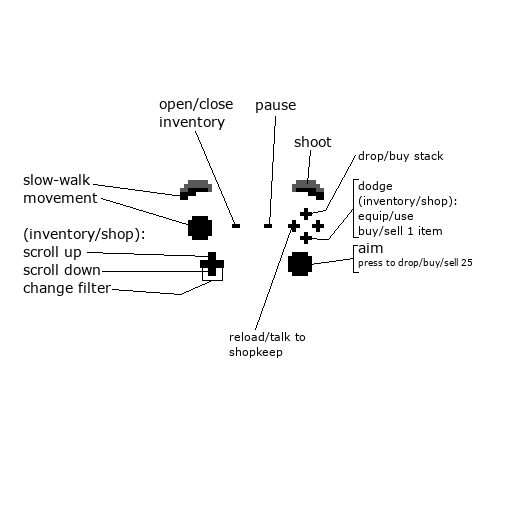
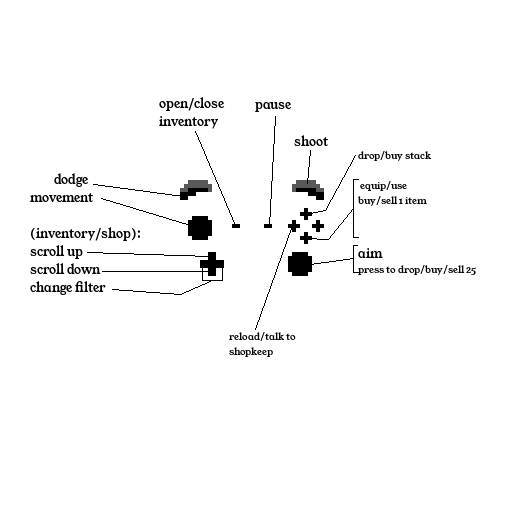
Various difficulty changes, change dodge control on gamepad to LB, update gamepad controls image

diff --git a/inventory/Item.cpp b/inventory/Item.cpp
@@ -50,7 +50,7 @@ const Item Item::DAGGER(6, "Dagger", sf::IntRect(18, 0, 1, 1), false, 0, false,
 
 const Item Item::BULLET_455(7, "Pistol Round", sf::IntRect(22, 3, 1, 1), true, 9999, false,
     "A centrefire black powder cartridge\nFor use with revolvers and\nother handguns",
-    EQUIPMENT_TYPE::AMMO, 10, 0, 0, sf::Vector2f(), false, 50
+    EQUIPMENT_TYPE::AMMO, 10, 0, 0, sf::Vector2f(), false, 15
 );
 const ProjectileData Item::DATA_B455(Item::BULLET_455.getId(), 5, sf::IntRect(6, 8, 4, 4), true, true);
 
@@ -236,7 +236,7 @@ const ProjectileData Item::DATA_PROJECTILE_SNOW_BALL(Item::_PROJECTILE_SNOW_BALL
 
 const Item Item::STEROIDS(33, "Steroids", sf::IntRect(114 >> SPRITE_SHEET_SHIFT, 161 >> SPRITE_SHEET_SHIFT, 1, 1), true, 5, true,
     "Increases max HP by 25\nIncreases max stamina by 100\nIncreases damage multiplier by .25",
-    EQUIPMENT_TYPE::NOT_EQUIPABLE, 0, 0, 0, sf::Vector2f(), false, 39000, true,
+    EQUIPMENT_TYPE::NOT_EQUIPABLE, 0, 0, 0, sf::Vector2f(), false, 30000, true,
     [](Entity* parent) {
         parent->setMaxHitPoints(parent->getMaxHitPoints() + 25);
         parent->setMaxStamina(parent->getMaxStamina() + 100);
@@ -281,7 +281,7 @@ const Item Item::LIQUID_NAP(37, "Liquid Nap", sf::IntRect(6, 11, 1, 1), true, 10
 
 const Item Item::LOCUS_LIFT(38, "Multivitamin", sf::IntRect(7, 11, 1, 1), true, 10, true,
     "Increases damage multiplier juuust a little bit",
-    EQUIPMENT_TYPE::NOT_EQUIPABLE, 0, 0, 0, sf::Vector2f(), false, 1999, true,
+    EQUIPMENT_TYPE::NOT_EQUIPABLE, 0, 0, 0, sf::Vector2f(), false, 1900, true,
     [](Entity* parent) {
         parent->increaseDamageMultiplier(0.1f);
         return true;
@@ -424,7 +424,7 @@ const ProjectileData Item::DATA_PROJECTILE_CHEESE_SLICE(Item::_PROJECTILE_CHEESE
 
 const Item Item::ARROW(56, "Arrow", sf::IntRect(1312 >> SPRITE_SHEET_SHIFT, 48 >> SPRITE_SHEET_SHIFT, 1, 1), true, 9999, false,
     "The shopkeep made this himself!\nNo warranty",
-    EQUIPMENT_TYPE::AMMO, 5, 0, 0, sf::Vector2f(), false, 8
+    EQUIPMENT_TYPE::AMMO, 5, 0, 0, sf::Vector2f(), false, 4
 );
 
 const ProjectileData Item::DATA_PROJECTILE_ARROW(Item::ARROW.getId(), 3.75f, sf::IntRect(4, 4, 12, 12), true, true, 1000LL, false, 0, 0, true);
@@ -503,7 +503,7 @@ const Item Item::_PROJECTILE_LARGE_BLOOD_BALL(64, "_LARGE_BLOOD_BALL_PROJECTILE"
     EQUIPMENT_TYPE::NOT_EQUIPABLE, 8, 0, 0, sf::Vector2f(), false
 );
 
-const ProjectileData Item::DATA_PROJECTILE_LARGE_BLOOD_BALL(Item::_PROJECTILE_LARGE_BLOOD_BALL.getId(), 4.0f, sf::IntRect(0, 0, 16, 16), false);
+const ProjectileData Item::DATA_PROJECTILE_LARGE_BLOOD_BALL(Item::_PROJECTILE_LARGE_BLOOD_BALL.getId(), 2.75f, sf::IntRect(0, 0, 16, 16), false);
 
 const Item Item::FINGER_NAIL(65, "Finger Nail", sf::IntRect(0, 12, 1, 1), true, 9999, false,
     "Smells weird\n\nSell it to the shopkeep for a pretty penny",

diff --git a/world/World.cpp b/world/World.cpp
@@ -1053,14 +1053,18 @@ void World::addEntity(std::shared_ptr<Entity> entity, bool defer) {
     if (entity->canPickUpItems()) _collectorMobs.push_back(entity);
 
     if (entity->isBoss()) {
-        if (HARD_MODE_ENABLED) {
+        if (HARD_MODE_ENABLED && entity->getSaveId() != TREE_BOSS) {
             entity->setMaxHitPoints(entity->getMaxHitPoints() + ((float)entity->getMaxHitPoints() * 2.5f));
+            entity->heal(entity->getMaxHitPoints());
+        } else if (!HARD_MODE_ENABLED) {
+            entity->setMaxHitPoints(entity->getMaxHitPoints() - ((float)entity->getMaxHitPoints() * 0.25f));
             entity->heal(entity->getMaxHitPoints());
         }
 
         _bossIsActive = true;
         _currentBoss = entity;
     } else if (HARD_MODE_ENABLED && entity->isMiniBoss()) {
+        entity->heal(-entity->getMaxHitPoints());
         entity->setMaxHitPoints(entity->getMaxHitPoints() + ((float)entity->getMaxHitPoints() * 1.50f));
         entity->heal(entity->getMaxHitPoints());
     }

diff --git a/world/entities/DroppedItem.cpp b/world/entities/DroppedItem.cpp
@@ -4,7 +4,7 @@
 #include "../../core/Tutorial.h"
 #include "../../statistics/StatManager.h"
 
-DroppedItem::DroppedItem(sf::Vector2f pos, float originOffset, unsigned int itemId, unsigned int amount, sf::IntRect textureRect) :
+DroppedItem::DroppedItem(sf::Vector2f pos, float originOffset, unsigned int itemId, unsigned int amount, sf::IntRect textureRect, bool droppedByPlayer) :
     _itemId(itemId), _amount(amount), _textureRect(textureRect), _minY(pos.y - _hoverDist), _originalY(pos.y),
     Entity(DROPPED_ITEM, pos, 1, textureRect.width, textureRect.height, false) {
 
@@ -16,6 +16,10 @@ DroppedItem::DroppedItem(sf::Vector2f pos, float originOffset, unsigned int item
     _dormancyTimeout = 60 * 5 * 60;
 
     _entityType = "droppeditem";
+
+    if (!HARD_MODE_ENABLED && !droppedByPlayer && _itemId == Item::PENNY.getId()) {
+        _amount = _amount + ((float)_amount * 0.75f);
+    }
 }
 
 void DroppedItem::update() {

diff --git a/world/entities/TreeBoss.cpp b/world/entities/TreeBoss.cpp
@@ -4,12 +4,12 @@
 
 TreeBoss::TreeBoss(sf::Vector2f pos) : Boss(TREE_BOSS, pos, 1, TILE_SIZE * 3, TILE_SIZE * 5,
     {
-        BossState(BEHAVIOR_STATE::CHASE, 3000LL, 8000LL),
+        BossState(BEHAVIOR_STATE::CHASE, 2000LL, 2500LL),
         BossState(BEHAVIOR_STATE::SHOOT_LOGS_0, 5000LL, 5000LL),
         BossState(BEHAVIOR_STATE::SHOOT_LOGS_1, 5000LL, 5000LL)
     }) 
 {
-    setMaxHitPoints(750);
+    setMaxHitPoints(300);
     heal(getMaxHitPoints());
 
     _hitBoxXOffset = -(TILE_SIZE * 3) / 2;
@@ -132,7 +132,7 @@ void TreeBoss::runCurrentState() {
         case SHOOT_LOGS_0:
         {
             if (currentTimeMillis() - _lastFireTimeMillis >= _fireRateMillis) {
-                float angle = 0.f;
+                float angle = 45.f / 2.f;
                 int firePoints = 360 / 45;
                 for (int i = 0; i < firePoints; i++) {
                     angle += (float)i * 45.f;

diff --git a/world/entities/Boss.cpp b/world/entities/Boss.cpp
@@ -47,7 +47,11 @@ void Boss::damage(int damage) {
     if (_hitPoints <= 0) {
         _isActive = false;
         for (int i = 0; i < getInventory().getCurrentSize(); i++) {
-            getInventory().dropItem(getInventory().getItemIdAt(i), getInventory().getItemAmountAt(i));
+            if (getInventory().getItemIdAt(i) == Item::PENNY.getId()) {
+                getWorld()->getPlayer()->getInventory().addItem(Item::PENNY.getId(), getInventory().getItemAmountAt(i));
+            } else {
+                getInventory().dropItem(getInventory().getItemIdAt(i), getInventory().getItemAmountAt(i));
+            }
         }
 
         if (!_spawnedWithEnemies) getWorld()->bossDefeated();

diff --git a/world/entities/DroppedItem.h b/world/entities/DroppedItem.h
@@ -5,7 +5,7 @@
 
 class DroppedItem : public Entity {
 public:
-    DroppedItem(sf::Vector2f pos, float originOffset, unsigned int itemId, unsigned int amount, sf::IntRect textureRect);
+    DroppedItem(sf::Vector2f pos, float originOffset, unsigned int itemId, unsigned int amount, sf::IntRect textureRect, bool droppedByPlayer = false);
 
     void update();
     void draw(sf::RenderTexture& surface);
@@ -16,7 +16,7 @@ public:
 
 private:
     const unsigned int _itemId;
-    const unsigned int _amount;
+    unsigned int _amount;
     const sf::IntRect _textureRect;
 
     const float _hoverDist = 5.f;

diff --git a/core/InputBindings.h b/core/InputBindings.h
@@ -181,8 +181,8 @@ private:
     }
 
     inline static std::map<BINDABLE_ACTION, GAMEPAD_BUTTON> GAMEPAD_BINDINGS = {
-        {BINDABLE_ACTION::WALK, GAMEPAD_BUTTON::LEFT_BUMPER},
-        {BINDABLE_ACTION::DODGE, GAMEPAD_BUTTON::A},
+        {BINDABLE_ACTION::WALK, GAMEPAD_BUTTON::RIGHT_BUMPER},
+        {BINDABLE_ACTION::DODGE, GAMEPAD_BUTTON::LEFT_BUMPER},
         {BINDABLE_ACTION::RELOAD, GAMEPAD_BUTTON::X},
         {BINDABLE_ACTION::SHOOT, GAMEPAD_BUTTON::RIGHT_TRIGGER},
         {BINDABLE_ACTION::INTERACT, GAMEPAD_BUTTON::X},

diff --git a/inventory/Inventory.cpp b/inventory/Inventory.cpp
@@ -104,7 +104,7 @@ void Inventory::dropItem(unsigned int itemId, unsigned int amount) {
 
     sf::Vector2f pos(px, py);
     std::shared_ptr<DroppedItem> droppedItem = std::shared_ptr<DroppedItem>(
-        new DroppedItem(pos, 1.f, itemId, amount, Item::ITEMS[itemId]->getTextureRect())
+        new DroppedItem(pos, 1.f, itemId, amount, Item::ITEMS[itemId]->getTextureRect(), true)
     );
     droppedItem->setWorld(_parent->getWorld());
     droppedItem->loadSprite(_parent->getWorld()->getSpriteSheet());

diff --git a/world/entities/CannonBoss.cpp b/world/entities/CannonBoss.cpp
@@ -8,7 +8,7 @@ CannonBoss::CannonBoss(sf::Vector2f pos) : Boss(CANNON_BOSS, pos, 1, TILE_SIZE *
         BossState(BEHAVIOR_STATE::REST, 3000LL, 5000LL),
         BossState(BEHAVIOR_STATE::RING_OF_BLOOD, 11000LL, 12000LL),
         //BossState(BEHAVIOR_STATE::TARGETED_FIRE, 2000LL, 4000LL),
-        BossState(BEHAVIOR_STATE::BLASTING, 4000LL, 6000LL)
+        BossState(BEHAVIOR_STATE::BLASTING, 3000LL, 5000LL)
     })
 {
     setMaxHitPoints(4000);

diff --git a/core/Game.cpp b/core/Game.cpp
@@ -1185,7 +1185,7 @@ void Game::buttonPressed(std::string buttonCode) {
         startLoading();
         if (!Tutorial::isCompleted()) {
             std::string msg;
-            if (GamePad::isConnected()) msg = "Press A to dodge";
+            if (GamePad::isConnected()) msg = "Press the left bumper to dodge";
             else msg = "Press spacebar to dodge";
             MessageManager::displayMessage(msg, 15);
         }

diff --git a/world/entities/CheeseBoss.cpp b/world/entities/CheeseBoss.cpp
@@ -27,7 +27,7 @@ CheeseBoss::CheeseBoss(sf::Vector2f pos) : Boss(CHEESE_BOSS, pos, 1, TILE_SIZE *
     _displayName = "William Cheesequake";
 
     srand(currentTimeNano());
-    unsigned int pennyAmount = randomInt(10000, 12000);
+    unsigned int pennyAmount = randomInt(20000, 30000);
     getInventory().addItem(Item::PENNY.getId(), pennyAmount);
 
     unsigned int cheeseAmount = randomInt(10, 16);

diff --git a/world/entities/TreeBoss.h b/world/entities/TreeBoss.h
@@ -25,7 +25,7 @@ private:
 
     long long _lastContactDamageTimeMillis = 0LL;
 
-    const long long _fireRateMillis = 250LL;
+    const long long _fireRateMillis = 450LL;
     long long _lastFireTimeMillis = 0LL;
 };
 
